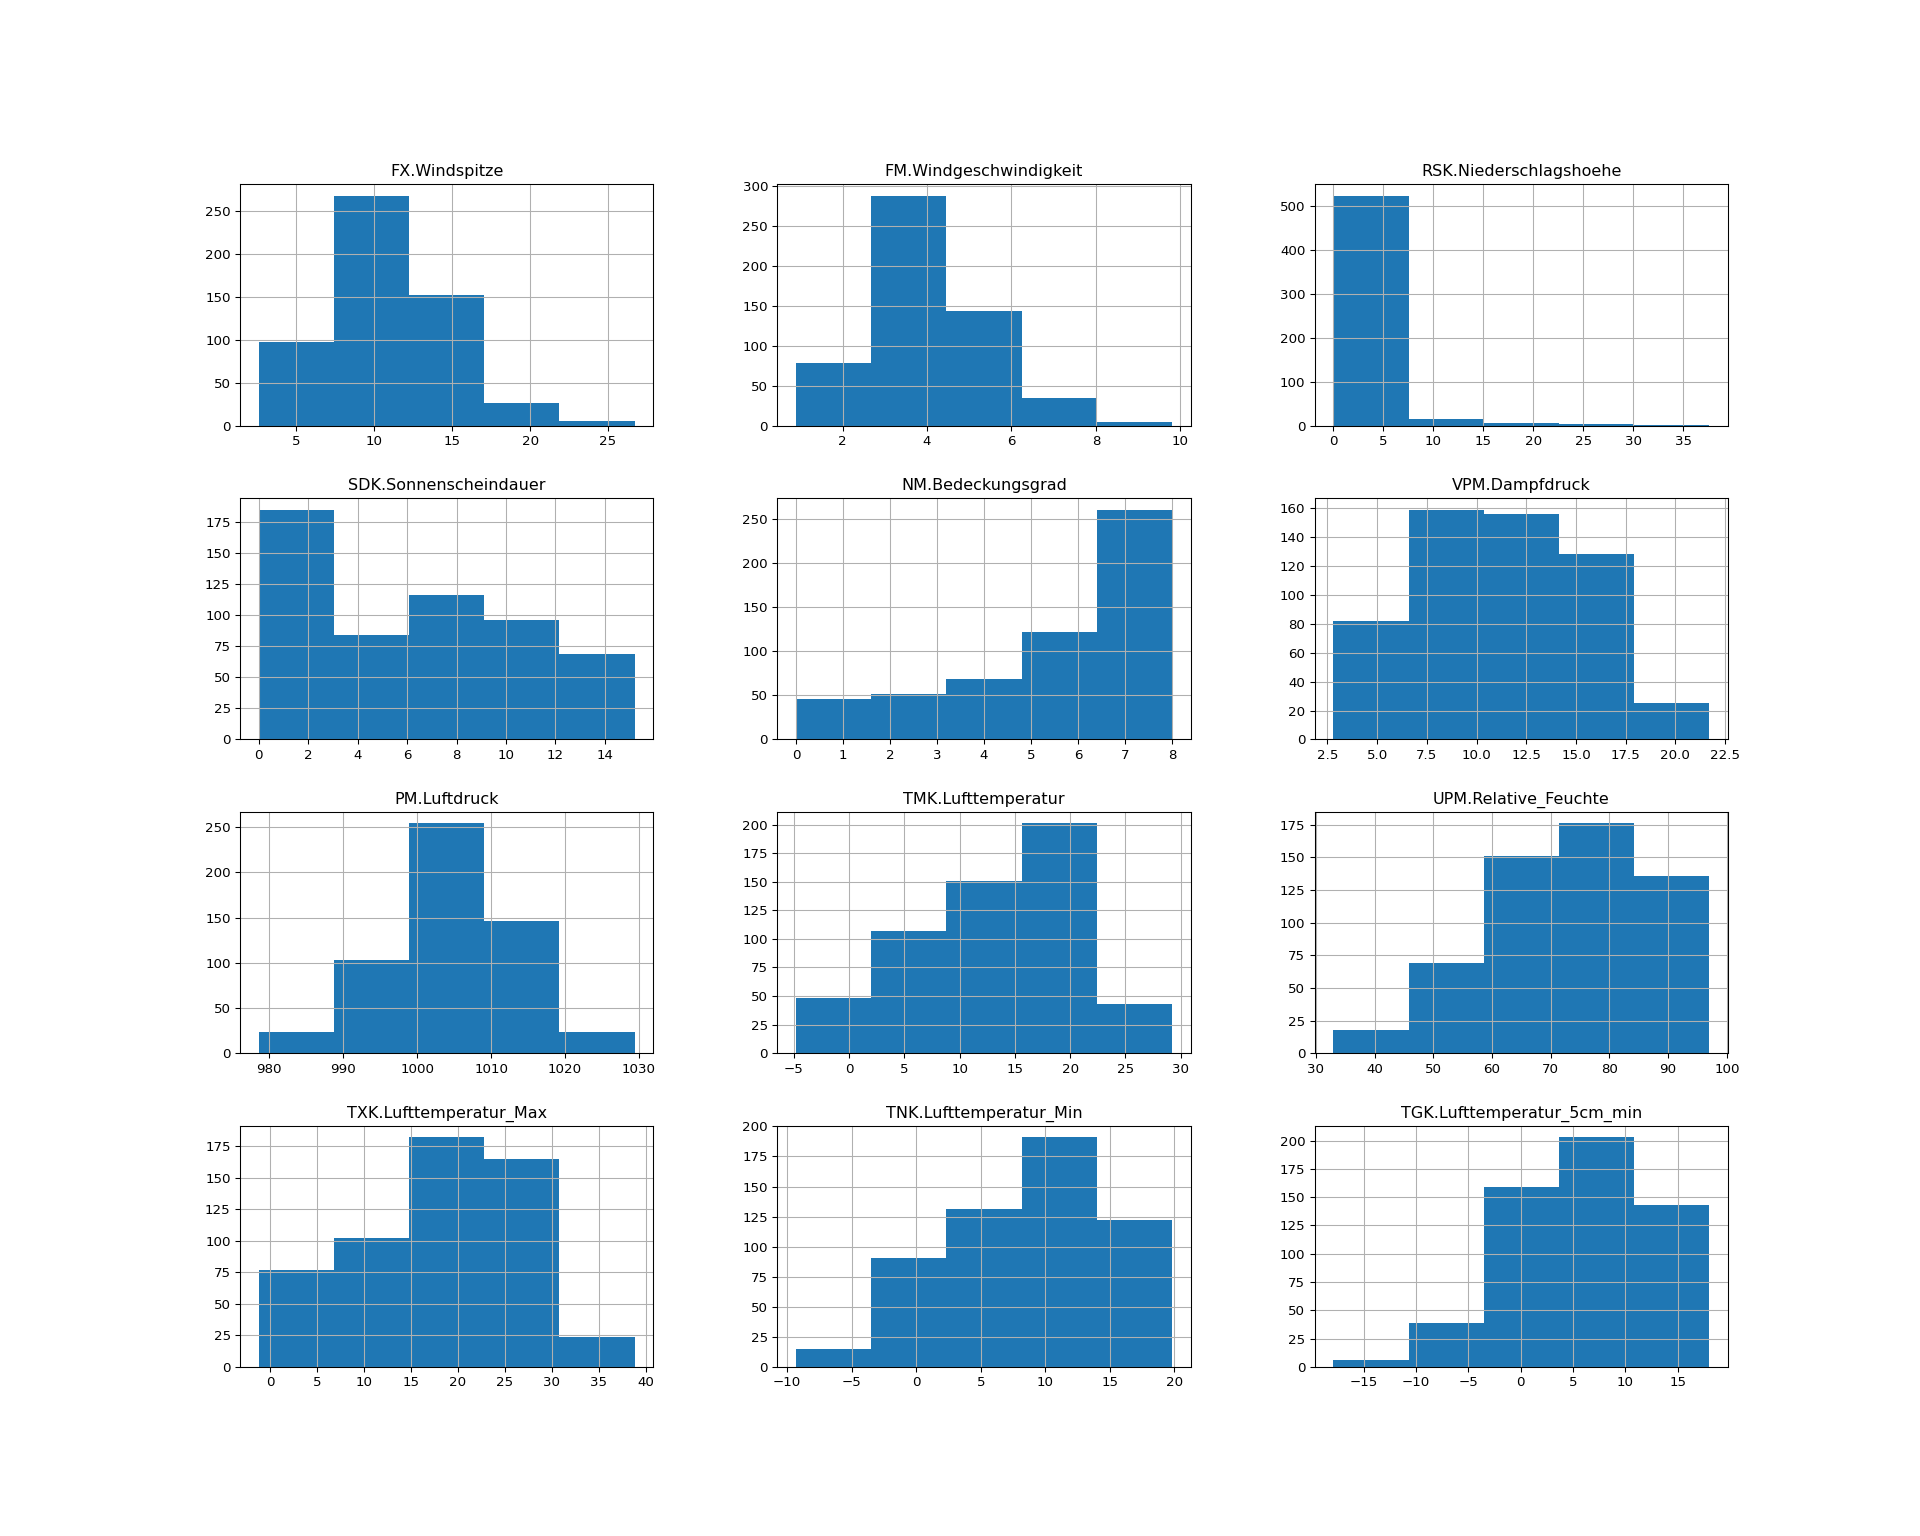
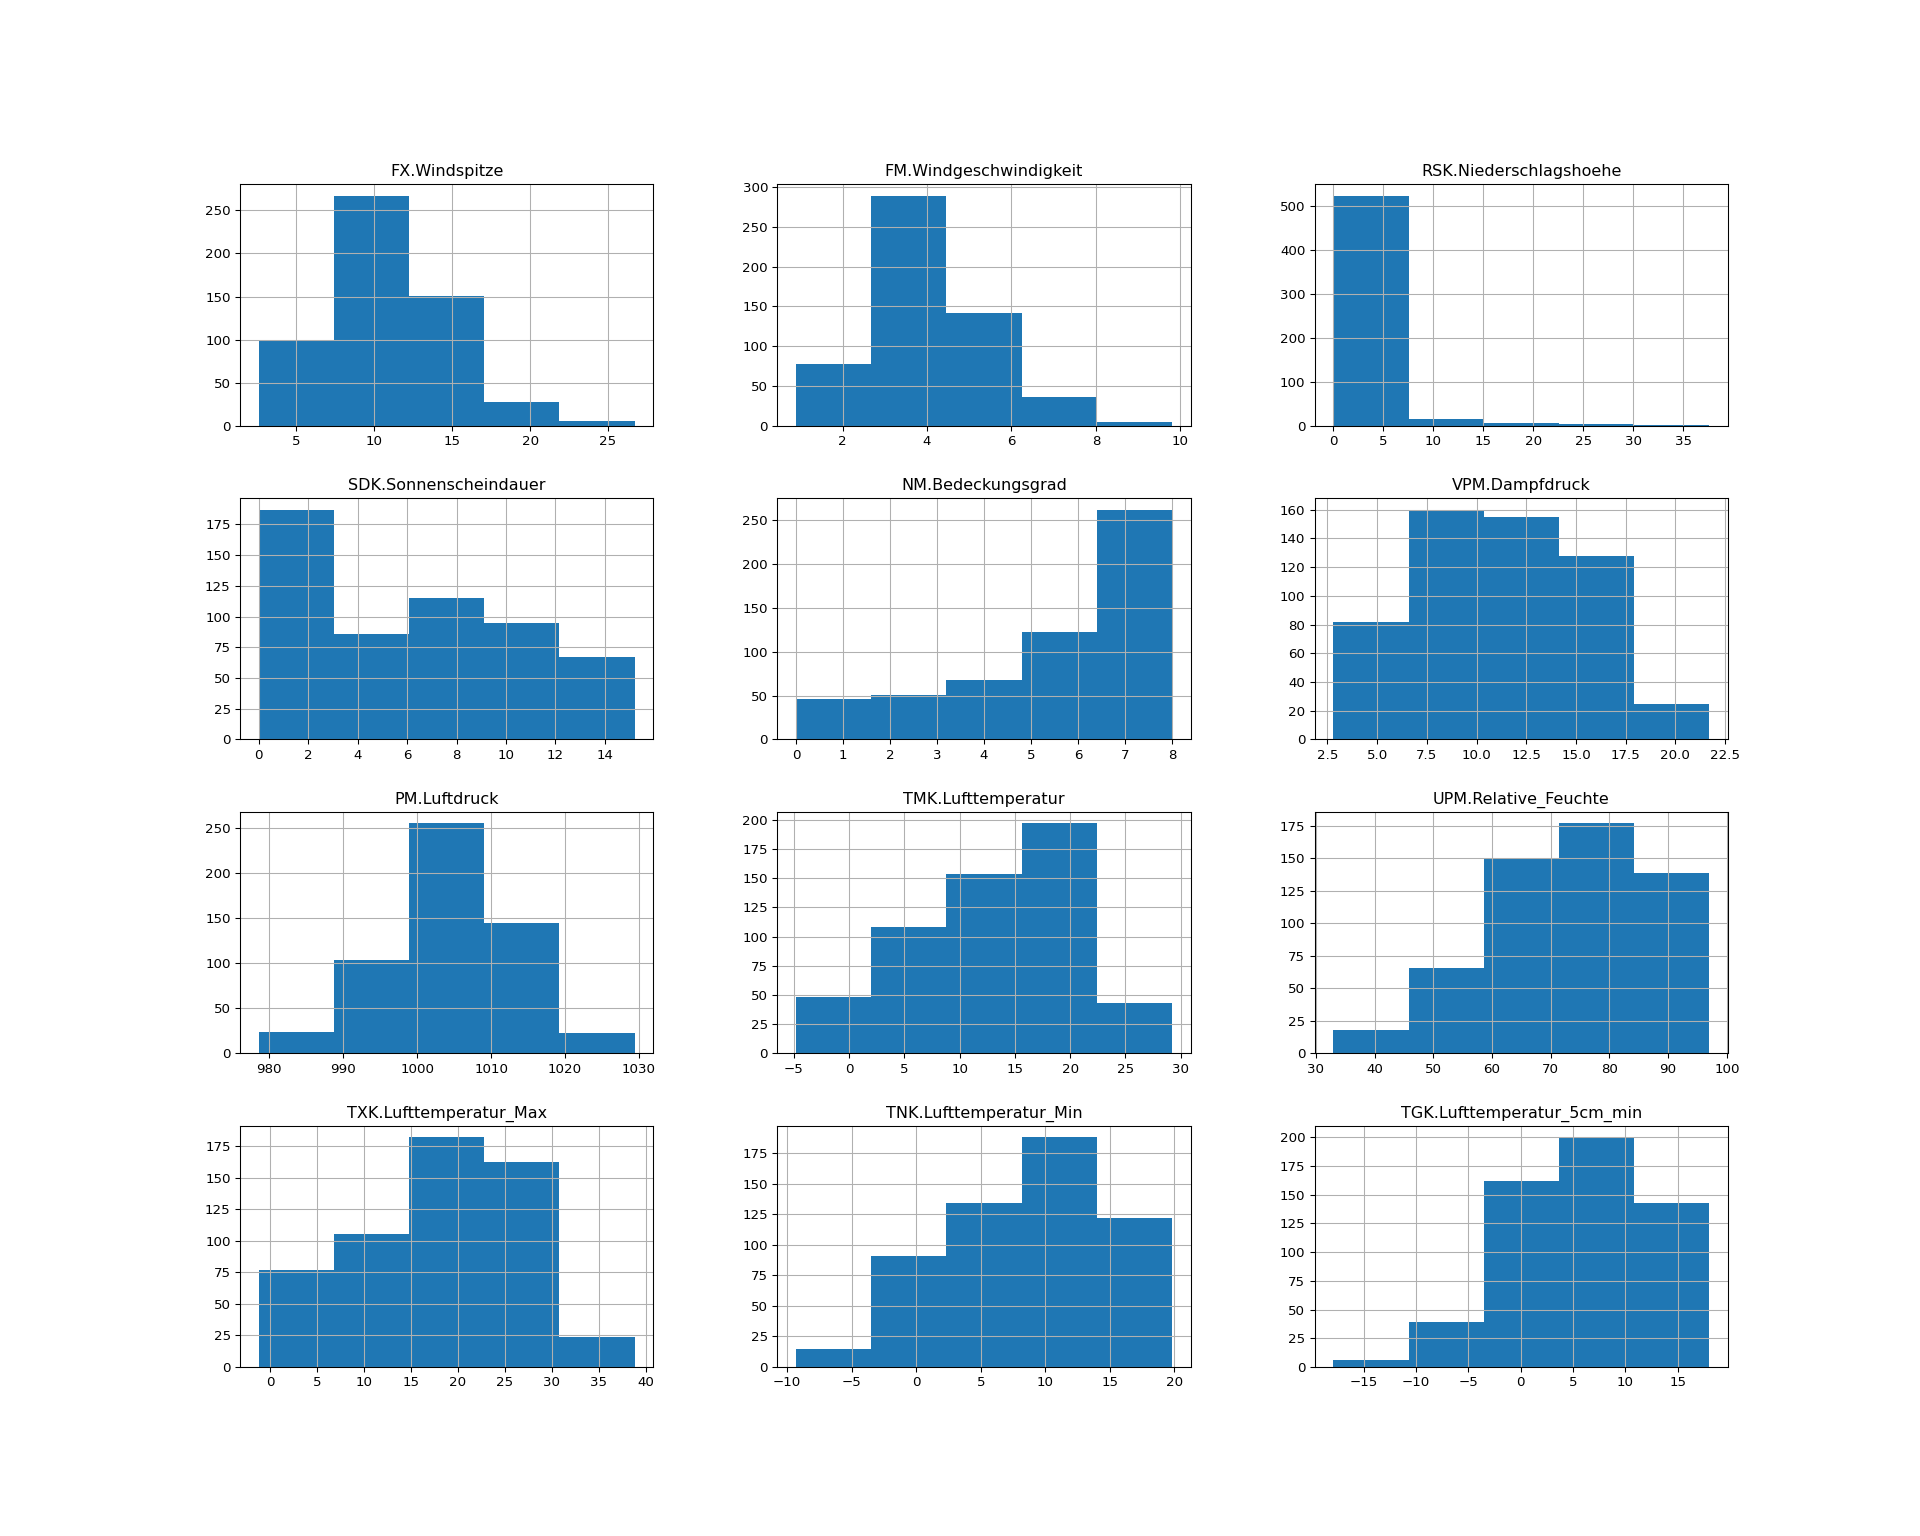
simplifying repo (reflecting new rdwd change)

diff --git a/README.md b/README.md
@@ -1,6 +1,6 @@
 # Fundamentals of Programming 2025
 Berry Boessenkool;
-2025-10-30, 21:59
+2025-11-03, 13:14
 
 This is a github task in the course
 [FP25](https://open.hpi.de/courses/hpi-dh-fprog2025).
@@ -14,13 +14,16 @@ first!
 
 Please **pull** before you **push**!!!!
 
-Due to people not pulling before pushing, we’re losing several edits.
-See
-e.g. [here](https://github.githistory.xyz/brry/FP25/blob/main/README.qmd)
+See [here](https://github.githistory.xyz/brry/FP25/blob/main/README.qmd)
 for a nicely animated version history (works for any file on github).
-Sorry if your edits got lost - feel free to add them again.
+Sorry if your edits got lost in my clean-up - feel free to add them
+again.
 
-## Get weather data
+## load modules / packages
+
+``` python
+import matplotlib, pandas
+```
 
 <details class="code-fold">
 <summary>Code</summary>
@@ -33,21 +36,15 @@ rdwd::updateRdwd()
 
 </details>
 
+## Get weather data
+
 download recent weather data using
 [rdwd](https://bookdown.org/brry/rdwd/)
 
 ``` r
 library(rdwd)
 link <- selectDWD("Potsdam", res="daily", var="kl", per="recent")
-link <- sub("^ftp://", "", link) # for student with blocked FTP access
-print("Data download initiated") # Added by Osama Aldweik – added a message to confirm download start
-```
-
-    [1] "Data download initiated"
-
-``` r
-dwdbase <- sub("^ftp://", "", dwdbase)
-clim <- dataDWD(sub("^ftp://","",link), base=sub("^ftp://","",dwdbase), varnames=TRUE, force=TRUE) 
+clim <- dataDWD(link, varnames=TRUE, force=24, removeftp=TRUE) 
 ```
 
 ## Visualise recent temperature
@@ -58,27 +55,10 @@ plotDWD(clim, "TMK.Lufttemperatur")
 
 ![](README_files/figure-commonmark/plot_clim-1.png)
 
-## Visualise recent wind speed
-
-``` r
-plotDWD(clim, "FX.Windspitze")
-```
-
-![](README_files/figure-commonmark/plot_wind_speed-1.png)
-
-## Visualise number of sunshine hours
-
-``` r
-plotDWD(clim, "SDK.Sonnenscheindauer")
-```
-
-![](README_files/figure-commonmark/plot_sunshine_hours-1.png)
-
 ## Transfer to Python
 
 ``` python
 clim_py = r.clim
-import matplotlib
 print(f"Dataset shape: {clim_py.shape[0]} rows, {clim_py.shape[1]} columns")
 ```
 
@@ -109,12 +89,12 @@ print(f"Coldest day: {r.clim.loc[min_temp_idx, 'MESS_DATUM']} with {clim_py.loc[
 
     === Summary Statistics for Temperature ===
     count    550.000000
-    mean      13.019455
-    std        7.069509
+    mean      12.955091
+    std        7.060297
     min       -4.800000
-    25%        8.100000
-    50%       14.150000
-    75%       18.700000
+    25%        8.025000
+    50%       13.950000
+    75%       18.675000
     max       29.200000
     Name: TMK.Lufttemperatur, dtype: float64
 
